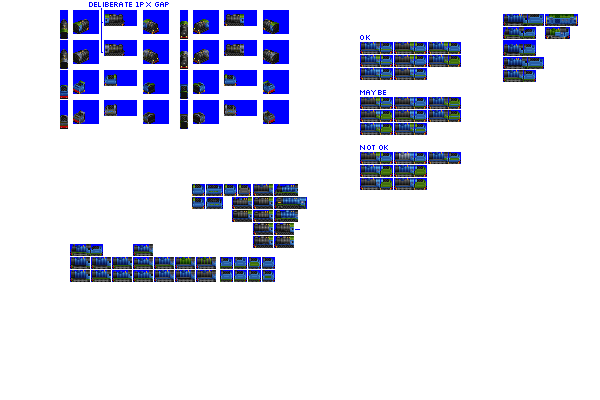
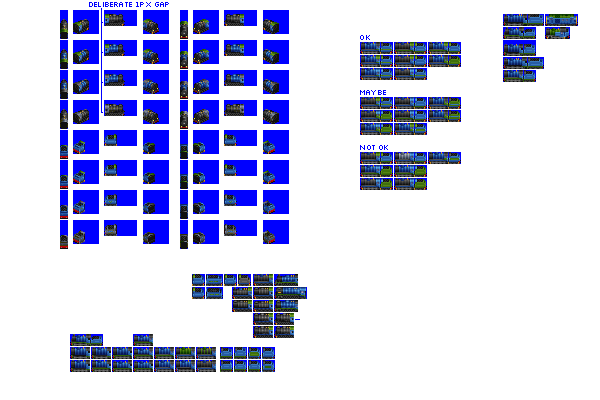
Change: additional liveries for Haar

diff --git a/src/vehicles/pony/haar.py b/src/vehicles/pony/haar.py
@@ -16,7 +16,7 @@ def main(**kwargs):
         },
         tractive_effort_coefficient=0.24,
         gen=3,
-        liveries=["WORKHORSE", "FREIGHT_BLACK"],
+        liveries=["WORKHORSE", "CONVENTIONAL_WISDOM", "STOCK_STANDARD", "FREIGHT_BLACK"],
         sprites_complete=True,
     )
 
